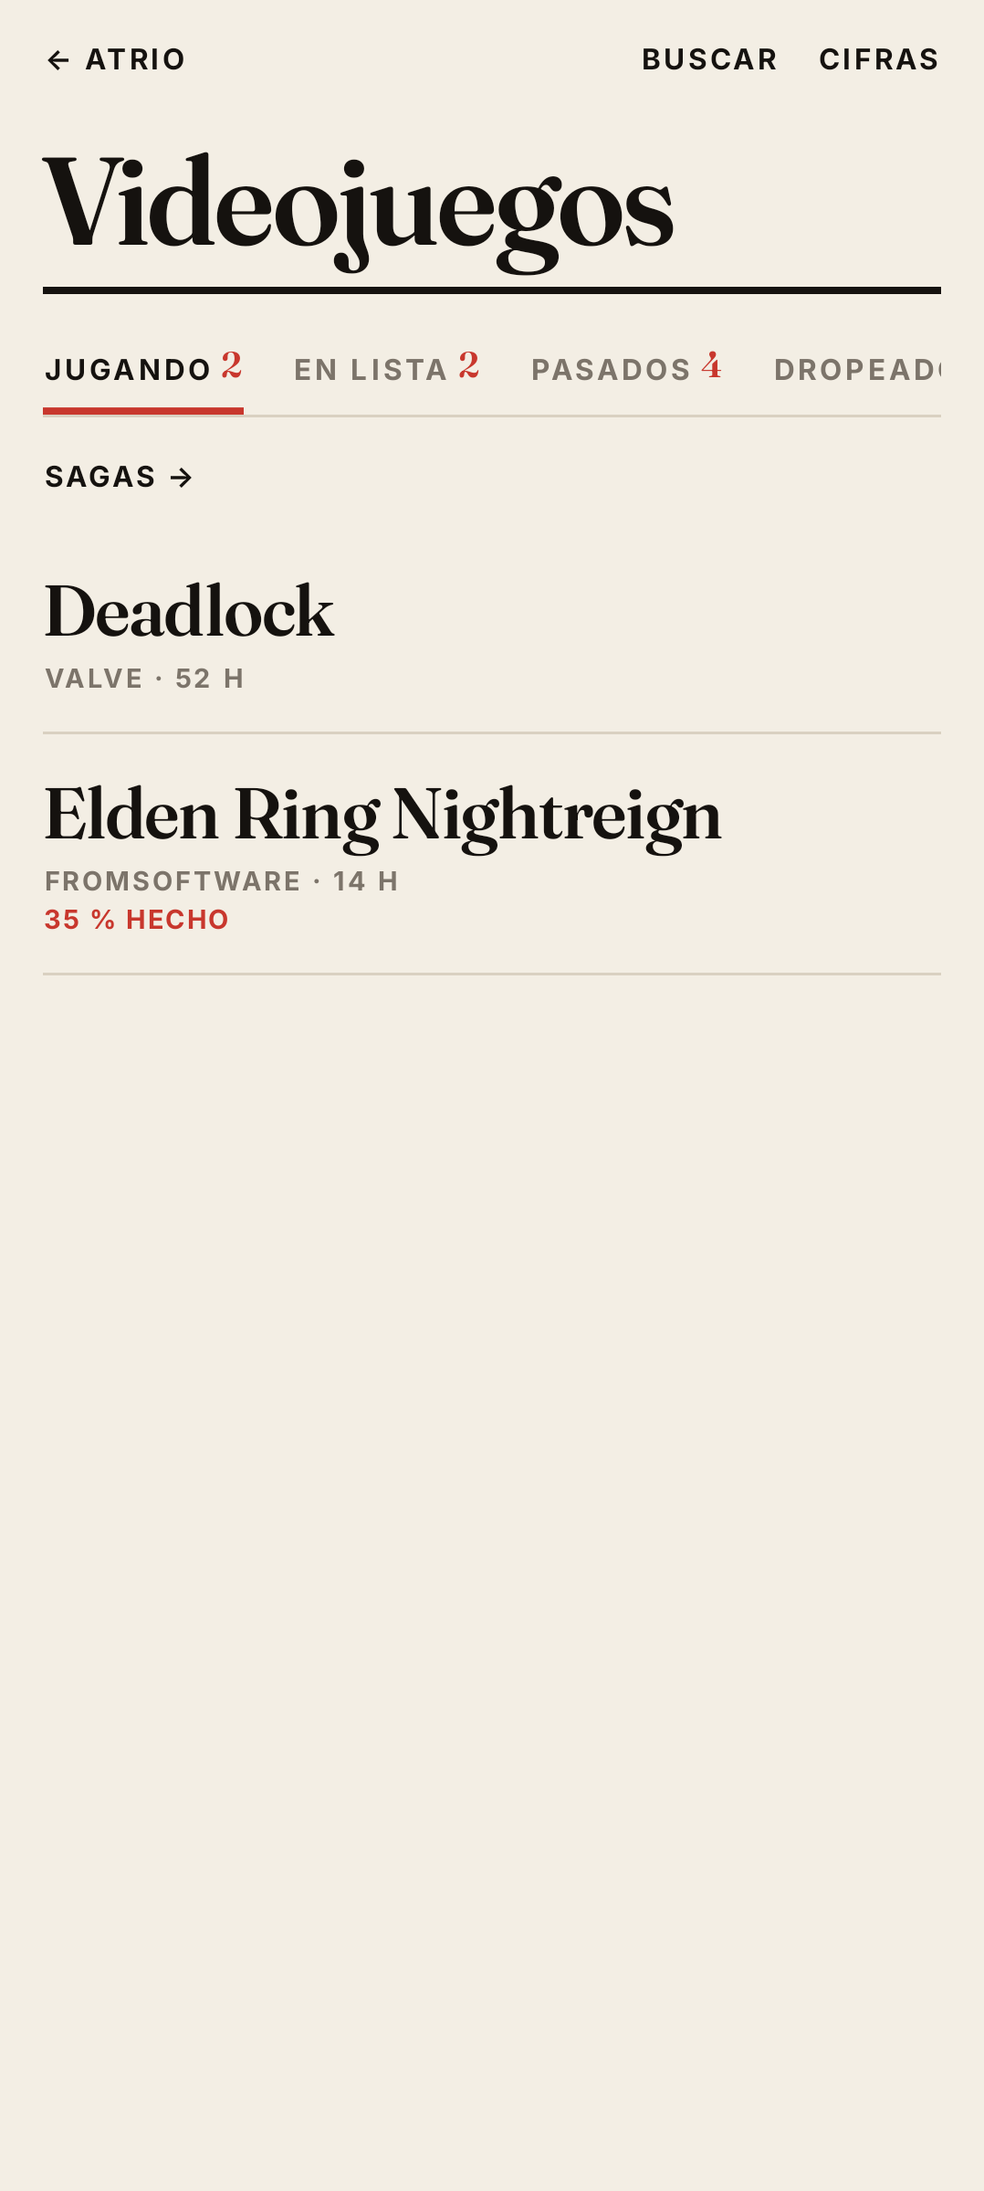
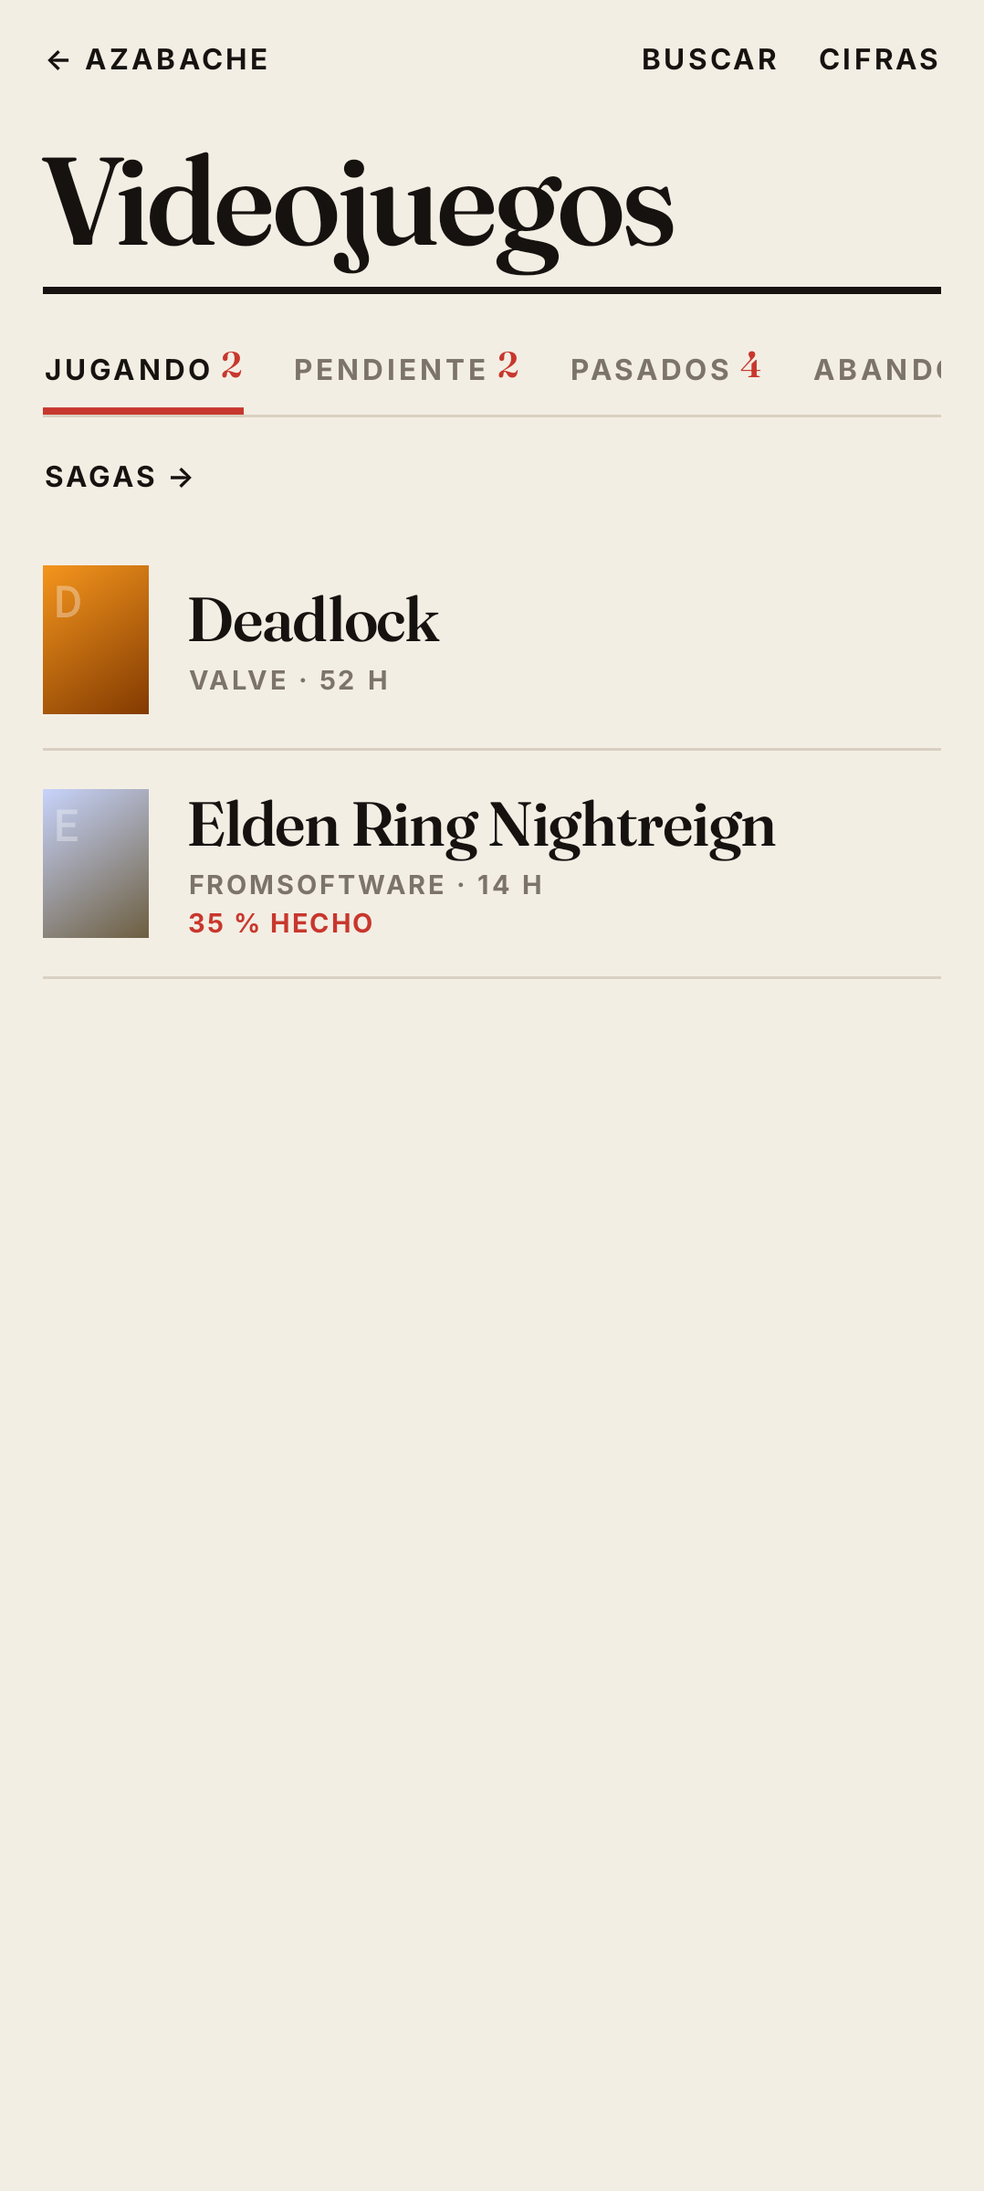
Azabache 1.2.0: como sus hermanas
- Casilla «Portada» en la primera fila de cada ficha (la misma imagen que en
  Hiedra o Marfil), también en las maquetas ya guardadas.
- Portadas en las listas de serie, con el tamaño de las listas de las hermanas.
- Estados como en Hiedra y Marfil: Pendiente · Jugando/Leyendo · Abandonado.
- «← Azabache» en las listas y textos que aún decían Atrio. 126 pruebas, 0 fallos.

Claude-Session: https://claude.ai/code/session_01Q4uywen3nuzUg5CTwJaCY5

diff --git a/app/src/main/java/com/gonzalo/gamerate/Revista.kt b/app/src/main/java/com/gonzalo/gamerate/Revista.kt
@@ -35,6 +35,15 @@ import androidx.compose.ui.unit.sp
  */
 
 /** Antetítulo de casilla (con una acción a la derecha, opcional). */
+/** La casilla «Portada» de la ficha: la misma imagen que tiene en Hiedra o en Marfil (o la que pusiste aquí); sin ninguna, la inicial sobre arena. */
+@Composable
+fun MagPortada(cover: String, name: String) {
+    Box(Modifier.fillMaxWidth(0.86f).aspectRatio(2f / 3f).background(Sand), contentAlignment = Alignment.Center) {
+        if (cover.isNotBlank()) coil.compose.AsyncImage(cover, name, Modifier.fillMaxSize(), contentScale = androidx.compose.ui.layout.ContentScale.Crop, colorFilter = Ediciones.filtro)
+        else Text(name.take(1).uppercase(), fontFamily = Display, fontWeight = FontWeight.Bold, fontSize = 44.sp, color = Muted)
+    }
+}
+
 @Composable
 fun MagLabel(text: String, action: String? = null, onAction: (() -> Unit)? = null) {
     Row(Modifier.fillMaxWidth().padding(bottom = 8.dp), verticalAlignment = Alignment.CenterVertically) {
@@ -277,6 +286,7 @@ fun RevistaGameRead(
     Spacer(Modifier.height(14.dp))
 
     val defs = linkedMapOf<String, MagDef>()
+    if (kind.isGame || kind.isBook) defs["portada"] = MagDef("Portada") { MagPortada(g.cover, g.name) }
     defs["nota"] = MagDef("Nota") {
         if (Hermanas.sinValorar(g)) {
             Text("Sin valorar", fontFamily = Display, fontWeight = FontWeight.Bold, fontSize = 30.sp, lineHeight = 32.sp)
@@ -307,9 +317,9 @@ fun RevistaGameRead(
     }
     defs["datos"] = MagDef("Datos") { GameFacts(g, kind) }
     val defaults = when {
-        kind.isGame -> magRows(listOf("horas", "nota"), listOf("opinion"), listOf("diario"), listOf("datos", "enlaces"))
+        kind.isGame -> magRows(listOf("portada", "nota"), listOf("opinion"), listOf("horas"), listOf("diario"), listOf("datos", "enlaces"))
         kind.isMovie || kind.isTv -> magRows(listOf("critica", "nota"), listOf("opinion"), listOf("diario"), listOf("datos", "enlaces"), listOf("donde"))
-        kind.isBook -> magRows(listOf("lectura", "nota"), listOf("opinion"), listOf("diario"), listOf("datos", "enlaces"))
+        kind.isBook -> magRows(listOf("portada", "nota"), listOf("opinion"), listOf("lectura"), listOf("diario"), listOf("datos", "enlaces"))
         else -> magRows(listOf("datos", "nota"), listOf("opinion"), listOf("diario"), listOf("enlaces"))
     }
     MagPage("v:${kind.id}:${g.id}", "tpl:v:${kind.id}", kind.title, defaults, defs, kind, g.id, g.name, designing)

diff --git a/app/src/main/java/com/gonzalo/gamerate/Screens.kt b/app/src/main/java/com/gonzalo/gamerate/Screens.kt
@@ -479,7 +479,7 @@ fun SettingsScreen(
             // La versión sale del propio APK (antes estaba escrita a mano y se quedó en 3.6)
             val actx = androidx.compose.ui.platform.LocalContext.current
             val ver = remember { try { actx.packageManager.getPackageInfo(actx.packageName, 0).versionName } catch (e: Exception) { null } ?: "" }
-            Text("Atrio $ver", fontWeight = FontWeight.SemiBold)
+            Text("Azabache $ver", fontWeight = FontWeight.SemiBold)
             Text(
                 "Portadas de juegos: SteamGridDB. Libros: Open Library y Google Books. Películas: TMDB (este producto usa la API de TMDB, pero TMDB no lo respalda ni lo certifica). Series: TVmaze (CC BY-SA). Recomendaciones: RAWG. Letras: Fraunces e Inter (SIL Open Font License).",
                 color = UiSoft, fontSize = 13.sp
@@ -867,7 +867,7 @@ private fun LocalArt(game: Game, hasHero: Boolean, hero: Boolean, onTarget: (Boo
             Text("ESTÁ EN OTRO DISPOSITIVO TUYO", color = Muted, fontSize = 11.sp, fontWeight = FontWeight.Black, letterSpacing = 1.3.sp)
             Spacer(Modifier.height(6.dp))
             val otros = Suite.phones()
-            if (otros.isEmpty()) Text("Abre Atrio en el móvil donde elegiste esta foto y podrás descargarla aquí, en su calidad original.", color = Muted, fontSize = 13.sp)
+            if (otros.isEmpty()) Text("Abre Azabache en el móvil donde elegiste esta foto y podrás descargarla aquí, en su calidad original.", color = Muted, fontSize = 13.sp)
             otros.forEach { d ->
                 OutlinedButton({
                     if (bajando != null) return@OutlinedButton
@@ -887,7 +887,7 @@ private fun LocalArt(game: Game, hasHero: Boolean, hero: Boolean, onTarget: (Boo
         Spacer(Modifier.height(12.dp))
         Text(
             (if (hero) "Se recorta a lo ancho, como los fondos. " else "Se recorta en vertical, como las portadas. ") +
-                "La imagen se guarda en este dispositivo y no se sube a internet: tu pareja no la verá. Tus otros dispositivos (el PC, la tableta) pueden descargarla mientras tengas Atrio abierto aquí.",
+                "La imagen se guarda en este dispositivo y no se sube a internet: tu pareja no la verá. Tus otros dispositivos (el PC, la tableta) pueden descargarla mientras tengas Azabache abierta aquí.",
             color = Muted, fontSize = 12.sp
         )
     }

diff --git a/app/src/test/java/com/gonzalo/gamerate/EstadoTest.kt b/app/src/test/java/com/gonzalo/gamerate/EstadoTest.kt
@@ -56,7 +56,7 @@ class EstadoTest {
         rule.setContent { MaterialTheme(colorScheme = appColors(), typography = AppTypography) { Surface(Modifier.fillMaxSize(), color = Paper) { App(s, 0L, false, "") {} } } }
         rule.waitForIdle()
         rule.onAllNodesWithText("Libros", ignoreCase = true)[0].performClick(); rule.waitForIdle()
-        rule.onAllNodesWithText("En lista", ignoreCase = true)[0].performClick(); rule.waitForIdle()
+        rule.onAllNodesWithText("Pendiente", ignoreCase = true)[0].performClick(); rule.waitForIdle()
         rule.onAllNodesWithText("Proyecto Hail Mary", ignoreCase = true)[0].performClick(); rule.waitForIdle()
         com.github.takahirom.roborazzi.captureScreenRoboImage("build/outputs/roborazzi/estado_1_ficha.png")
         rule.onAllNodesWithText("EDITAR", ignoreCase = true)[0].performClick(); rule.waitForIdle()
@@ -75,7 +75,7 @@ class EstadoTest {
         org.junit.Assert.assertTrue(rule.onAllNodesWithText("Proyecto Hail Mary", ignoreCase = true).fetchSemanticsNodes().isNotEmpty())
         // Y vuelve a la lista igual de fácil
         rule.onAllNodesWithText("Proyecto Hail Mary", ignoreCase = true)[0].performClick(); rule.waitForIdle()
-        rule.onAllNodesWithText("EN LISTA", ignoreCase = true)[0].performScrollTo().performClick(); rule.waitForIdle()
+        rule.onAllNodesWithText("PENDIENTE", ignoreCase = true)[0].performScrollTo().performClick(); rule.waitForIdle()
         org.junit.Assert.assertEquals(0, Store(ctx).loadPlays(1).single().status)
     }
 
@@ -88,7 +88,7 @@ class EstadoTest {
         rule.setContent { MaterialTheme(colorScheme = appColors(), typography = AppTypography) { Surface(Modifier.fillMaxSize(), color = Paper) { App(s, 0L, false, "") {} } } }
         rule.waitForIdle()
         rule.onAllNodesWithText("Libros", ignoreCase = true)[0].performClick(); rule.waitForIdle()
-        rule.onAllNodesWithText("En lista", ignoreCase = true)[0].performClick(); rule.waitForIdle()
+        rule.onAllNodesWithText("Pendiente", ignoreCase = true)[0].performClick(); rule.waitForIdle()
         rule.onAllNodesWithText("Klara y el Sol", ignoreCase = true)[0].performClick(); rule.waitForIdle()
         rule.onAllNodesWithText("EDITAR", ignoreCase = true)[0].performClick(); rule.waitForIdle()
         rule.onAllNodesWithText("DATOS Y NOTA", substring = true)[0].performClick(); rule.waitForIdle()

diff --git a/app/src/main/java/com/gonzalo/gamerate/Biblioteca.kt b/app/src/main/java/com/gonzalo/gamerate/Biblioteca.kt
@@ -282,7 +282,7 @@ private fun RevistaLibrary(l: LibUi) {
     ) {
         item {
             Row(Modifier.fillMaxWidth().padding(top = 6.dp), verticalAlignment = Alignment.CenterVertically, horizontalArrangement = Arrangement.spacedBy(16.dp)) {
-                if (l.onBack != null) TextLink("← ATRIO", onClick = l.onBack)
+                if (l.onBack != null) TextLink("← AZABACHE", onClick = l.onBack)
                 Spacer(Modifier.weight(1f))
                 TextLink(if (l.searching) "CERRAR" else "BUSCAR") { l.setSearching(!l.searching); if (l.searching) l.setQuery("") }
                 TextLink("CIFRAS", onClick = l.onStats)
@@ -318,9 +318,9 @@ private fun RevistaLibrary(l: LibUi) {
             // El título grande, la nota a la derecha y el estudio (o autor) debajo; con «Portadas en las listas», su
             // portada a la izquierda, como en las sagas
             Row(Modifier.fillMaxWidth().press(haptic = false) { l.open(c) }.padding(vertical = 14.dp).rise(i, i < 12), verticalAlignment = Alignment.CenterVertically) {
-                if (Skin.listCovers) { ListCover(c.cover, c.name, 74.dp, 104.dp); Spacer(Modifier.width(16.dp)) }
+                if (Skin.listCovers) { ListCover(c.cover, c.name, 44.dp, 62.dp); Spacer(Modifier.width(16.dp)) }
                 Column(Modifier.weight(1f)) {
-                    FitTitle(c.name, 30.sp, 32.sp, letterSpacing = (-0.5).sp, maxLines = 3, overflow = androidx.compose.ui.text.style.TextOverflow.Ellipsis)
+                    FitTitle(c.name, 26.sp, 28.sp, letterSpacing = (-0.5).sp, maxLines = 3, overflow = androidx.compose.ui.text.style.TextOverflow.Ellipsis)
                     val who = (c.game?.creator ?: c.play?.creator).orEmpty()
                     val line = listOf(who, if (c.sub != who) c.sub else "").filter { it.isNotBlank() }.joinToString(" · ")
                     if (line.isNotBlank()) Text(line.uppercase(), color = Muted, fontSize = 11.sp, fontWeight = FontWeight.Bold, letterSpacing = 1.4.sp, maxLines = 1, overflow = androidx.compose.ui.text.style.TextOverflow.Ellipsis, modifier = Modifier.padding(top = 2.dp))

diff --git a/app/src/main/java/com/gonzalo/gamerate/Maqueta.kt b/app/src/main/java/com/gonzalo/gamerate/Maqueta.kt
@@ -167,14 +167,14 @@ object MagLayouts {
 
     /** Casillas nuevas de esta versión (p. ej. «subrayados»): a las maquetas ya guardadas se les añade una vez,
      *  en su propia fila detrás de [after]; si luego la quitas, no vuelve. */
-    fun withNew(ctx: Context, key: String, rows: List<MagRowSpec>, mod: String, after: String): List<MagRowSpec> {
+    fun withNew(ctx: Context, key: String, rows: List<MagRowSpec>, mod: String, after: String, primera: Boolean = false): List<MagRowSpec> {
         val flag = "nuevo:$mod:$key"
         val p = prefs(ctx)
         if (p.getBoolean(flag, false)) return rows
         p.edit().putBoolean(flag, true).apply()
         if (rows.any { r -> r.cells.any { it.type == mod } }) return rows
-        val i = rows.indexOfFirst { r -> r.cells.any { it.type == after } }
-        val out = rows.toMutableList().apply { add(if (i >= 0) i + 1 else size, MagRowSpec(listOf(MagCell(mod)))) }
+        val i = if (primera) -1 else rows.indexOfFirst { r -> r.cells.any { it.type == after } }
+        val out = rows.toMutableList().apply { add(if (primera) 0 else if (i >= 0) i + 1 else size, MagRowSpec(listOf(MagCell(mod)))) }
         save(ctx, key, out)
         return out
     }
@@ -228,6 +228,8 @@ fun MagPage(
             if ("donde" in defs) r = MagLayouts.withNew(ctx, key, r, "donde", "critica")
             // (Atrio 6.64: «En tu diario», detrás de los apuntes o de la opinión, la primera vez que hay algo escrito)
             if ("diario" in defs) r = MagLayouts.withNew(ctx, key, r, "diario", if (r.any { row -> row.cells.any { it.type == "apuntes" } }) "apuntes" else "opinion")
+            // (Azabache 1.2: la portada, la misma que en Hiedra y Marfil, como primera fila; si ya la pusiste tú, no se repite)
+            if ("portada" in defs) r = MagLayouts.withNew(ctx, key, r, "portada", "", primera = true)
             r
         } ?: defaults)
     }

diff --git a/app/src/main/java/com/gonzalo/gamerate/Perfil.kt b/app/src/main/java/com/gonzalo/gamerate/Perfil.kt
@@ -203,7 +203,7 @@ fun ProfileScreen(
                     val ob = androidx.lifecycle.LifecycleEventObserver { _, ev -> if (ev == androidx.lifecycle.Lifecycle.Event.ON_RESUME) sobre = Actualizador.puedeReabrirSola(actx) }
                     vida.addObserver(ob); onDispose { vida.removeObserver(ob) }
                 }
-                Text(if (sobre) "Tras actualizar, Atrio se vuelve a abrir sola" else "Tras actualizar, Atrio se cierra y te avisa para abrirla. Para que se reabra sola hace falta el permiso «Mostrar sobre otras apps»",
+                Text(if (sobre) "Tras actualizar, Azabache se vuelve a abrir sola" else "Tras actualizar, Azabache se cierra y te avisa para abrirla. Para que se reabra sola hace falta el permiso «Mostrar sobre otras apps»",
                     color = Muted, fontSize = 12.sp, lineHeight = 16.sp)
                 if (!sobre) androidx.compose.material3.TextButton({
                     runCatching { actx.startActivity(android.content.Intent(android.provider.Settings.ACTION_MANAGE_OVERLAY_PERMISSION, android.net.Uri.parse("package:${actx.packageName}")).addFlags(android.content.Intent.FLAG_ACTIVITY_NEW_TASK)) }
@@ -242,7 +242,7 @@ fun ProfileScreen(
         // (las claves, importar, Drive y las copias están en la pestaña «Servicios y copias»)
         Spacer(Modifier.height(20.dp))
         val ver = remember { try { ctx.packageManager.getPackageInfo(ctx.packageName, 0).versionName } catch (e: Exception) { null } ?: "" }
-        Text("Atrio $ver", color = Muted, fontSize = 12.sp, modifier = Modifier.fillMaxWidth().padding(4.dp))
+        Text("Azabache $ver", color = Muted, fontSize = 12.sp, modifier = Modifier.fillMaxWidth().padding(4.dp))
     }
 }
 

diff --git a/app/src/main/java/com/gonzalo/gamerate/PlayScreens.kt b/app/src/main/java/com/gonzalo/gamerate/PlayScreens.kt
@@ -121,6 +121,7 @@ fun PlayDetailScreen(
                     MagLink("Marcar «${kind.statuses[1]}»", accent = true) { empezar() }
                 }
             }
+            if (kind.isGame || kind.isBook) defs["portada"] = MagDef("Portada") { MagPortada(p.cover, p.name) }
             defs["estado"] = MagDef(if (b != null) "Nota" else "Estado") {
                 if (b != null) MagScore(b.general, b.scores(), kind)
                 else FitTitle(kind.statuses.getOrElse(p.status) { "" }, 30.sp, 32.sp)
@@ -167,9 +168,9 @@ fun PlayDetailScreen(
                 MagLink("Datos de la ficha") { editing = true }
             }
             val defaults = when {
-                kind.isGame -> magRows(listOf("estado"), listOf("jugar"), listOf("apuntes"), listOf("diario"), listOf("horas", "enlaces"))
+                kind.isGame -> magRows(listOf("portada", "estado"), listOf("jugar"), listOf("apuntes"), listOf("diario"), listOf("horas", "enlaces"))
                 kind.isMovie || kind.isTv -> magRows(listOf("critica", "estado"), listOf("donde"), listOf("progreso"), listOf("apuntes"), listOf("diario"), listOf("enlaces"))
-                kind.isBook -> magRows(listOf("lectura", "estado"), listOf("apuntes"), listOf("diario"), listOf("enlaces"))
+                kind.isBook -> magRows(listOf("portada", "estado"), listOf("lectura"), listOf("apuntes"), listOf("diario"), listOf("enlaces"))
                 else -> magRows(listOf("estado"), listOf("apuntes"), listOf("diario"), listOf("enlaces"))
             }
             MagPage("p:${kind.id}:${p.id}", "tpl:p:${kind.id}", kind.title, defaults, defs, kind, p.id, p.name, designing)

diff --git a/app/src/main/java/com/gonzalo/gamerate/Skin.kt b/app/src/main/java/com/gonzalo/gamerate/Skin.kt
@@ -410,7 +410,7 @@ object Skin {
     /** Tamaño de las portadas en las bibliotecas: 0 normal, 1 grandes, 2 pequeñas. */
     var covers by mutableStateOf(0)
     /** Revista: las listas con la portada al lado del título (como las sagas), en lugar de solo títulos. */
-    var listCovers by mutableStateOf(false)
+    var listCovers by mutableStateOf(true)
     /** Dock con el nombre del destino elegido (si no, solo iconos). */
     var dockLabels by mutableStateOf(true)
     /** La interfaz: solo hay una, la revista (la antigua, con dock, ya no existe). */
@@ -525,7 +525,7 @@ object Skin {
         fondoPropio = p.getLong("skin_fondo_propio", 0L); tintaPropia = p.getLong("skin_tinta_propia", 0L); acentoPropio = p.getLong("skin_acento_propio", 0L)
         letraTitulos = p.getString("skin_letra_titulos", "").orEmpty(); letraTexto = p.getString("skin_letra_texto", "").orEmpty()
         covers = p.getInt("skin_covers", 0)
-        listCovers = p.getBoolean("skin_listcovers", false)
+        listCovers = p.getBoolean("skin_listcovers", true)
         dockLabels = p.getBoolean("skin_docklabels", true)
         // La interfaz Feed (1) ya no existe: pasa a Revista
         shell = 2

diff --git a/app/src/main/java/com/gonzalo/gamerate/Data.kt b/app/src/main/java/com/gonzalo/gamerate/Data.kt
@@ -71,19 +71,19 @@ fun isWebId(id: Long) = id in 1 until 100_000_000_000L
 val GAMES = Kind(
     0, "Videojuegos",
     listOf("Valoración", "Gráficos", "Historia", "Música", "Jugabilidad"),
-    listOf("En lista", "Jugando", "Dropeado"), false
+    listOf("Pendiente", "Jugando", "Abandonado"), false
 )
 
 val BOOKS = Kind(
     1, "Libros",
     listOf("Valoración", "Personajes", "Historia", "Escritura", "Ritmo"),
-    listOf("En lista", "Leyendo", "Abandonado"), true
+    listOf("Pendiente", "Leyendo", "Abandonado"), true
 )
 
 /** Crea una categoría propia. criteria: lo que se valora (1 a 4); progress: palabra para "en curso"; source: buscador. */
 fun customKind(id: Int, title: String, criteria: List<String>, progress: String, color: Int, source: String = "") = Kind(
     id, title.trim(), listOf("Valoración") + criteria.map { it.trim() }.filter { it.isNotEmpty() }.take(4).ifEmpty { listOf("Disfrute") },
-    listOf("En lista", progress.trim().ifEmpty { "En curso" }, "Abandonado"), false, true, color,
+    listOf("Pendiente", progress.trim().ifEmpty { "En curso" }, "Abandonado"), false, true, color,
     source.takeIf { it == SRC_MOVIE || it == SRC_TV } ?: ""
 )
 

diff --git a/app/src/main/java/com/gonzalo/gamerate/RevistaUI.kt b/app/src/main/java/com/gonzalo/gamerate/RevistaUI.kt
@@ -31,7 +31,7 @@ fun EnlaceRevista(texto: String, modifier: Modifier = Modifier, acento: Boolean 
         modifier = modifier.semantics { role = Role.Button }.press(haptic = false, onClick = onClick).padding(vertical = 10.dp))
 }
 
-/** «← VOLVER» (o «← ATRIO» en lo que cuelga de la portada): siempre el mismo, arriba a la izquierda. */
+/** «← VOLVER» (o «← AZABACHE» en lo que cuelga de la portada): siempre el mismo, arriba a la izquierda. */
 @Composable
 fun VolverRevista(onClick: () -> Unit, texto: String = "Volver") = EnlaceRevista("← $texto", onClick = onClick)
 

diff --git a/app/src/main/java/com/gonzalo/gamerate/Stats.kt b/app/src/main/java/com/gonzalo/gamerate/Stats.kt
@@ -309,7 +309,7 @@ fun StatsScreen(
             Row(horizontalArrangement = Arrangement.spacedBy(8.dp)) {
                 BigNumber("${st.done}", kind.doneWord, Modifier.weight(1f))
                 BigNumber("${st.inProgress}", kind.statuses[1], Modifier.weight(1f))
-                BigNumber("${st.listed}", "En lista", Modifier.weight(1f))
+                BigNumber("${st.listed}", "Pendientes", Modifier.weight(1f))
             }
             Spacer(Modifier.height(8.dp))
             Stat(kind.statuses[2] + "s", "" + st.dropped)

diff --git a/README.md b/README.md
@@ -9,6 +9,14 @@ Hermana de [Hiedra](https://github.com/Gonvegato/hiedra) (juegos), [Marfil](http
 y aquí aparecen solos, con su estado, sus horas y sus portadas, para valorarlos. Las películas, las series y tus categorías propias siguen
 aquí tal cual (con su «Añadir»).
 
+## 1.2.0: como sus hermanas
+
+- **La portada en la ficha**: una casilla «Portada» (la misma imagen que en Hiedra o en Marfil) en la primera fila de cada ficha, junto al
+  estado o a la nota, como en sus hermanas. Entra sola en las maquetas que ya tenías (si no la quieres, se quita en «Editar»).
+- **Portadas en las listas**, encendidas de serie (Ajustes → Apariencia las apaga), con el tamaño de las listas de Hiedra y Marfil.
+- Los estados se llaman como en Hiedra y Marfil: **Pendiente · Jugando/Leyendo · Abandonado** (antes «En lista» y «Dropeado»).
+- «← Azabache» en las listas (decía «← Atrio»), y los textos que aún nombraban a Atrio.
+
 ## 1.1.5: tus subrayados de Marfil, aquí
 
 - Los subrayados que haces en Marfil (su nodo ligero `subrayados`) salen en Azabache: en «La cita» de la portada (y su widget), en el Diario
